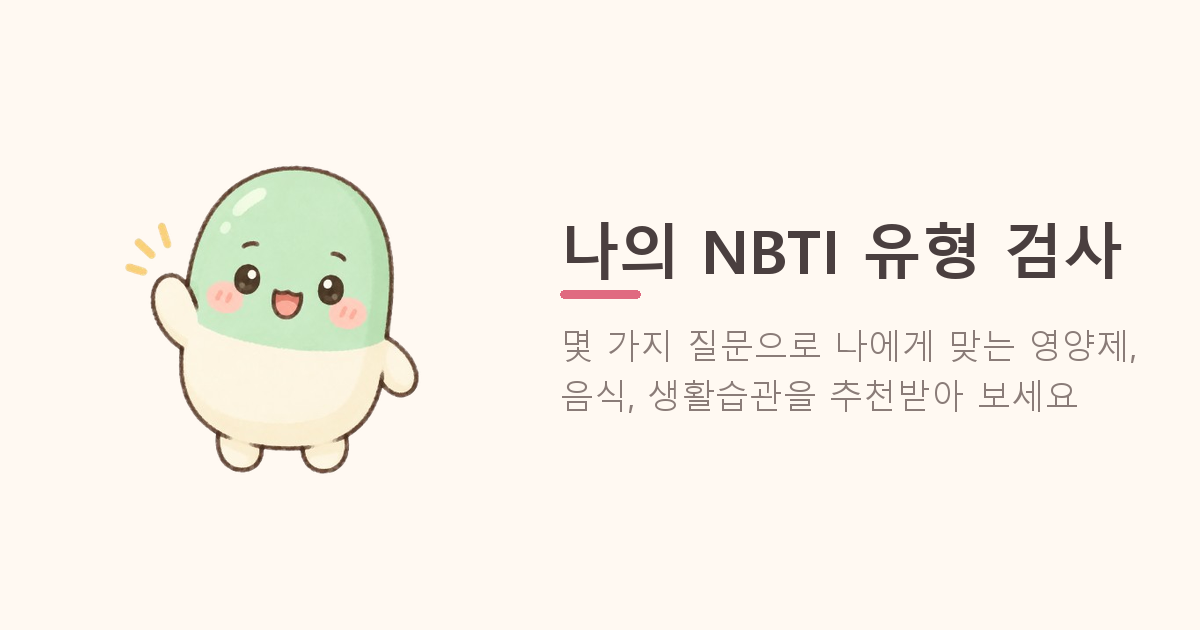
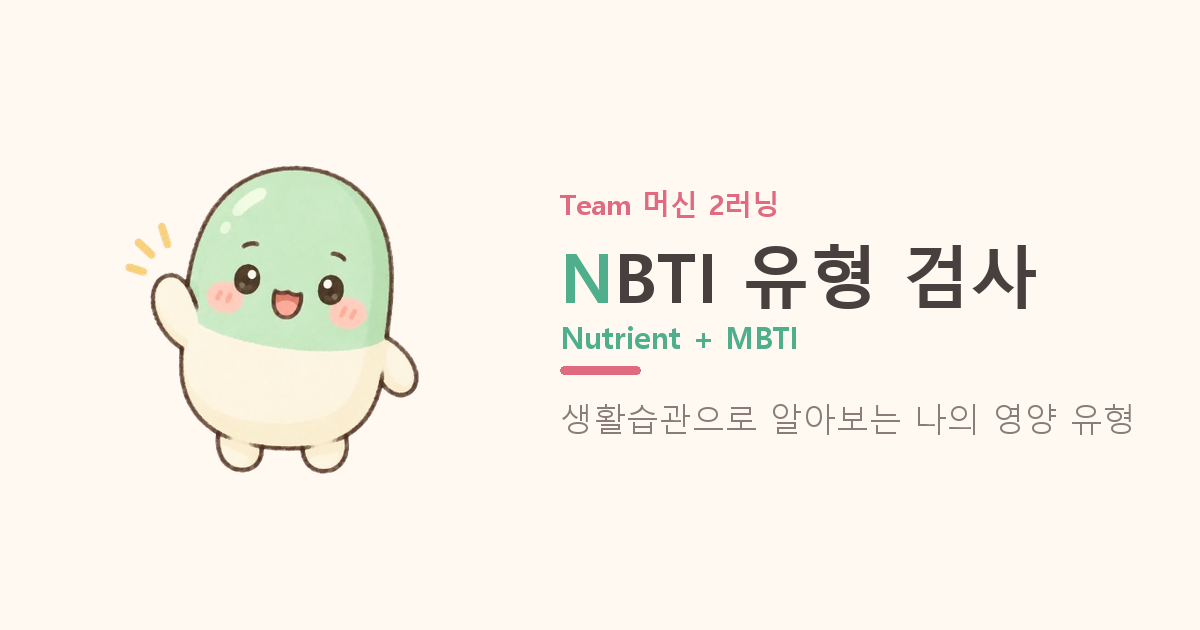
feat: 시작 화면 리디자인 (팀명, NBTI 의미, 번갈아 나오는 안내)
- 왼쪽 위 'Team 머신 2러닝' 배지, 서비스 이름을 'NBTI 유형 검사'로 변경하고 N(Nutrient) 강조
- 제목 아래 'Nutrient + MBTI' 칩으로 이름의 뜻 표시
- RotatingNotes: 머신러닝으로 찾아 둔 유형별 부족 영양소, 데이터 출처(성인 15,062명),
  응답이 서버에 저장되지 않는다는 안내를 한 줄씩 번갈아 표시 (동작 줄이기 시 고정)
- 세로가 짧은 화면에서는 마스코트를 줄여 시작 버튼까지 한 화면에 표시
- 공유 미리보기 이미지(og.png)에 팀명·N 강조·부제 반영 (config.js의 TEAM_NAME·SERVICE_SUBTITLE)

diff --git a/bigskyyang/web/src/pages/StartPage.jsx b/bigskyyang/web/src/pages/StartPage.jsx
@@ -1,20 +1,71 @@
 import Mascot from '../components/Mascot.jsx'
 import PrimaryButton from '../components/PrimaryButton.jsx'
-import { SERVICE_NAME } from '../config.js'
+import RotatingNotes from '../components/RotatingNotes.jsx'
+import { SERVICE_NAME, TEAM_NAME } from '../config.js'
+import { model } from '../lib/classify.js'
+
+// 'NBTI 유형 검사'에서 앞의 N(Nutrient)만 강조
+function Title() {
+  const [head, ...rest] = SERVICE_NAME
+  return (
+    <h1 className="text-[2.25rem] leading-tight font-extrabold tracking-tight">
+      {head === 'N' ? (
+        <>
+          <span className="text-mint-strong">N</span>
+          {rest.join('')}
+        </>
+      ) : (
+        SERVICE_NAME
+      )}
+    </h1>
+  )
+}
 
 export default function StartPage() {
-  return (
-    <main className="flex flex-1 flex-col px-6 pt-10 pb-[max(1.5rem,env(safe-area-inset-bottom))]">
-      <section className="flex flex-1 flex-col items-center justify-center text-center">
-        <Mascot name="start" gif="hello" float />
+  const sampleSize = model.profiles.all.n.toLocaleString('ko-KR')
 
-        <h1 className="mt-4 text-[2rem] leading-tight font-extrabold tracking-tight">{SERVICE_NAME}</h1>
+  return (
+    <main className="flex flex-1 flex-col px-6 pt-5 pb-[max(1.5rem,env(safe-area-inset-bottom))]">
+      <header className="flex justify-start">
+        <span className="rounded-full bg-white px-3.5 py-1.5 text-xs font-bold text-primary-strong shadow-soft">
+          <span className="font-semibold text-ink-faint">Team</span> {TEAM_NAME}
+        </span>
+      </header>
+
+      <section className="flex flex-1 flex-col items-center justify-center py-4 text-center">
+        {/* 세로가 짧은 휴대폰(iPhone SE 등)에서는 마스코트를 줄여 버튼까지 한 화면에 들어오게 */}
+        <Mascot name="start" gif="hello" float className="[@media(max-height:720px)]:size-48" />
+
+        <div className="mt-2">
+          <Title />
+        </div>
+        {/* NBTI = Nutrient + MBTI */}
+        <p className="mt-2.5 flex items-center gap-1.5 text-xs font-bold" aria-label="Nutrient와 MBTI를 합친 말">
+          <span className="rounded-full bg-mint px-2.5 py-1">🥗 Nutrient</span>
+          <span className="text-ink-faint">+</span>
+          <span className="rounded-full bg-lavender px-2.5 py-1">🧩 MBTI</span>
+        </p>
       </section>
 
-      <footer className="mt-10">
+      <footer>
+        {/* 머신러닝 분석은 팀이 미리 해 두었고, 설문은 그중 가장 가까운 유형을 찾을 뿐이다 */}
+        <RotatingNotes
+          className="mb-3 text-center text-xs text-ink-soft"
+          items={[
+            <>
+              🤖 머신러닝으로 <b className="text-ink">유형별 부족 영양소</b>를 찾아 두었어요
+            </>,
+            <>
+              📊 국민건강영양조사 성인 <b className="text-ink">{sampleSize}명</b>(2022–2024) 분석
+            </>,
+            // 응답은 sessionStorage에만 잠시 두고 서버로 보내지 않는다 (lib/storage.js)
+            <>
+              🔒 응답은 <b className="text-ink">서버에 저장되지 않고</b>, 창을 닫으면 사라져요
+            </>,
+          ]}
+        />
         <PrimaryButton to="/survey">검사 시작하기</PrimaryButton>
-
-        <p className="mt-5 text-center text-xs leading-relaxed text-ink-faint">
+        <p className="mt-4 text-center text-xs leading-relaxed text-ink-faint">
           추천 결과는 참고용이며 의료적 진단이나 처방을 대체하지 않습니다.
         </p>
       </footer>

diff --git a/bigskyyang/web/src/components/RotatingNotes.jsx b/bigskyyang/web/src/components/RotatingNotes.jsx
@@ -1,0 +1,52 @@
+import { useEffect, useState } from 'react'
+
+const prefersReducedMotion = () => window.matchMedia?.('(prefers-reduced-motion: reduce)').matches
+
+// 한 줄 안내를 번갈아 보여준다. 지금 줄은 위로 사라지고 다음 줄이 아래에서 올라온다.
+// 바뀔 때마다 key가 바뀌어 애니메이션(index.css의 note-in/note-out)이 처음부터 다시 재생된다.
+// '동작 줄이기'를 켠 사용자에게는 움직이지 않고 모든 줄을 한꺼번에 보여준다.
+// items: 화면에 보일 내용(React 노드) 배열, interval: 바뀌는 간격(ms)
+export default function RotatingNotes({ items, interval = 3200, className = '' }) {
+  const [tick, setTick] = useState(0)
+  const [still] = useState(prefersReducedMotion)
+
+  useEffect(() => {
+    if (still || items.length < 2) return undefined
+    const id = setInterval(() => setTick((t) => t + 1), interval)
+    return () => clearInterval(id)
+  }, [still, items.length, interval])
+
+  if (still) {
+    return (
+      <ul className={`space-y-1 ${className}`}>
+        {items.map((item, i) => (
+          <li key={i}>{item}</li>
+        ))}
+      </ul>
+    )
+  }
+
+  const active = tick % items.length
+  const leaving = (tick - 1 + items.length) % items.length
+  const line = 'absolute inset-x-0 top-0 leading-5 whitespace-nowrap'
+  return (
+    <div className={className}>
+      {/* 화면 읽기 프로그램에는 바뀔 때마다 읽지 않고 모든 줄을 한 번만 읽어 준다 */}
+      <ul className="sr-only">
+        {items.map((item, i) => (
+          <li key={i}>{item}</li>
+        ))}
+      </ul>
+      <div aria-hidden="true" className="relative h-5 overflow-hidden">
+        {tick > 0 && (
+          <p key={`out-${tick}`} className={`${line} animate-note-out`}>
+            {items[leaving]}
+          </p>
+        )}
+        <p key={`in-${tick}`} className={`${line} ${tick > 0 ? 'animate-note-in' : ''}`}>
+          {items[active]}
+        </p>
+      </div>
+    </div>
+  )
+}

diff --git a/bigskyyang/web/src/components/Mascot.jsx b/bigskyyang/web/src/components/Mascot.jsx
@@ -12,6 +12,8 @@ const prefersReducedMotion = () => window.matchMedia?.('(prefers-reduced-motion:
 // float: 정지 이미지일 때 둥실거리는 애니메이션 (움직이는 이미지는 스스로 움직이므로 적용하지 않음)
 // size:  'md'(176px, 기본) | 'sm'(96px, 설문 화면 등)
 const SIZES = { md: 'size-44', sm: 'size-24' }
+// 움직이는 이미지는 캐릭터 주변 여백이 정지 이미지보다 넓어서 박스를 크게 잡아야 캐릭터 크기가 비슷해진다
+const ANIMATED_SIZES = { md: 'size-64', sm: 'size-32' }
 
 export default function Mascot({ name = 'default', gif, float = false, size = 'md', className = '' }) {
   const animated = gif && !prefersReducedMotion() ? [`/mascot/${gif}.webp`, `/mascot/${gif}.gif`] : []
@@ -33,8 +35,7 @@ export default function Mascot({ name = 'default', gif, float = false, size = 'm
     )
   }
 
-  // 움직이는 이미지는 캐릭터 주변 여백이 정지 이미지보다 넓어서 박스를 크게 잡아야 캐릭터 크기가 비슷해진다
-  const box = tried < animated.length ? `size-64 shrink-0 ${className}` : still
+  const box = tried < animated.length ? `${ANIMATED_SIZES[size]} shrink-0 ${className}` : still
   return (
     <img
       key={src}

diff --git a/bigskyyang/web/src/config.js b/bigskyyang/web/src/config.js
@@ -1,6 +1,12 @@
 // 서비스 전역 설정. 이름·소개 문구가 바뀌면 여기만 고치면 된다.
-// (vite.config.js에서도 불러와 index.html의 <title>·description에 넣으므로 JSX를 쓰지 말 것)
+// (vite.config.js·scripts/make_share_image.py에서도 읽으므로 JSX를 쓰지 말고, 값은 작은따옴표로 쓸 것)
 
-export const SERVICE_NAME = '나의 NBTI 유형 검사'
+export const TEAM_NAME = '머신 2러닝'
 
-export const SERVICE_TAGLINE = '몇 가지 질문으로 나에게 맞는 영양제, 음식, 생활습관을 추천받아 보세요'
+export const SERVICE_NAME = 'NBTI 유형 검사'
+
+// 짧은 부제 (공유 미리보기 이미지에 쓴다)
+export const SERVICE_SUBTITLE = '생활습관으로 알아보는 나의 영양 유형'
+
+// 링크 공유 미리보기·검색 설명에 쓰는 한 줄 소개
+export const SERVICE_TAGLINE = '생활습관으로 알아보는 나의 영양 유형. 머신러닝이 찾은 유형별 부족 영양소에 맞춰 생활습관·음식·영양제를 추천해요'

diff --git a/bigskyyang/web/src/index.css b/bigskyyang/web/src/index.css
@@ -51,6 +51,32 @@
       transform: translateY(-12px);
     }
   }
+
+  /* 한 줄 안내 넘기기 (RotatingNotes): 아래에서 올라오고, 위로 사라진다 */
+  --animate-note-in: note-in 0.5s ease-out both;
+  --animate-note-out: note-out 0.5s ease-in both;
+
+  @keyframes note-in {
+    from {
+      transform: translateY(100%);
+      opacity: 0;
+    }
+    to {
+      transform: translateY(0);
+      opacity: 1;
+    }
+  }
+
+  @keyframes note-out {
+    from {
+      transform: translateY(0);
+      opacity: 1;
+    }
+    to {
+      transform: translateY(-100%);
+      opacity: 0;
+    }
+  }
 }
 
 @layer base {

diff --git a/bigskyyang/scripts/make_share_image.py b/bigskyyang/scripts/make_share_image.py
@@ -1,6 +1,6 @@
 """
 카카오톡 등에 링크를 보낼 때 뜨는 공유 미리보기 이미지(web/public/og.png, 1200×630)를 만든다.
-서비스 이름·소개 문구는 web/src/config.js에서 읽는다. 이름이나 마스코트가 바뀌면 다시 실행한다.
+팀 이름·서비스 이름·부제는 web/src/config.js에서 읽는다. 이름이나 마스코트가 바뀌면 다시 실행한다.
 
 사용법 (bigskyyang 폴더에서, Windows의 맑은 고딕 글꼴 사용)
   python scripts/make_share_image.py
@@ -18,10 +18,11 @@ CREAM = (0xFF, 0xF9, 0xF2)
 INK = (0x4A, 0x3F, 0x3F)
 INK_SOFT = (0x8A, 0x7C, 0x78)
 PRIMARY = (0xE0, 0x6A, 0x80)
+MINT = (0x4F, 0xAE, 0x8C)
 
 config = (WEB / 'src' / 'config.js').read_text(encoding='utf-8')
-name = re.search(r"SERVICE_NAME = '([^']+)'", config).group(1)
-tagline = re.search(r"SERVICE_TAGLINE = '([^']+)'", config).group(1)
+const = lambda key: re.search(rf"{key} = '([^']+)'", config).group(1)
+team, name, subtitle = const('TEAM_NAME'), const('SERVICE_NAME'), const('SERVICE_SUBTITLE')
 
 
 def wrap(draw, text, font, width):
@@ -51,16 +52,30 @@ size = 68
 while size > 44 and draw.textlength(name, font=ImageFont.truetype(FONT_BOLD, size)) > width:
     size -= 2
 title_font = ImageFont.truetype(FONT_BOLD, size)
-body_font = ImageFont.truetype(FONT, 34)
-title_lines = wrap(draw, name, title_font, width)
-body_lines = wrap(draw, tagline, body_font, width)
+team_font = ImageFont.truetype(FONT_BOLD, 28)
+small_font = ImageFont.truetype(FONT_BOLD, 30)
+# 부제도 되도록 한 줄에
+body_size = 34
+while body_size > 26 and draw.textlength(subtitle, font=ImageFont.truetype(FONT, body_size)) > width:
+    body_size -= 1
+body_font = ImageFont.truetype(FONT, body_size)
+body_lines = wrap(draw, subtitle, body_font, width)
 title_h = round(size * 1.3)
-y = (H - (len(title_lines) * title_h + 36 + len(body_lines) * 50)) // 2
-for line in title_lines:
-    draw.text((x, y), line, font=title_font, fill=INK)
-    y += title_h
-draw.rounded_rectangle((x, y + 4, x + 80, y + 12), radius=4, fill=PRIMARY)
-y += 36
+y = (H - (44 + title_h + 50 + 30 + len(body_lines) * 50)) // 2
+
+draw.text((x, y), f'Team {team}', font=team_font, fill=PRIMARY)
+y += 44
+# 제목: 앞의 N(Nutrient)만 민트색으로
+if name.startswith('N'):
+    draw.text((x, y), 'N', font=title_font, fill=MINT)
+    draw.text((x + draw.textlength('N', font=title_font), y), name[1:], font=title_font, fill=INK)
+else:
+    draw.text((x, y), name, font=title_font, fill=INK)
+y += title_h
+draw.text((x, y), 'Nutrient + MBTI', font=small_font, fill=MINT)
+y += 50
+draw.rounded_rectangle((x, y, x + 80, y + 8), radius=4, fill=PRIMARY)
+y += 30
 for line in body_lines:
     draw.text((x, y), line, font=body_font, fill=INK_SOFT)
     y += 50
